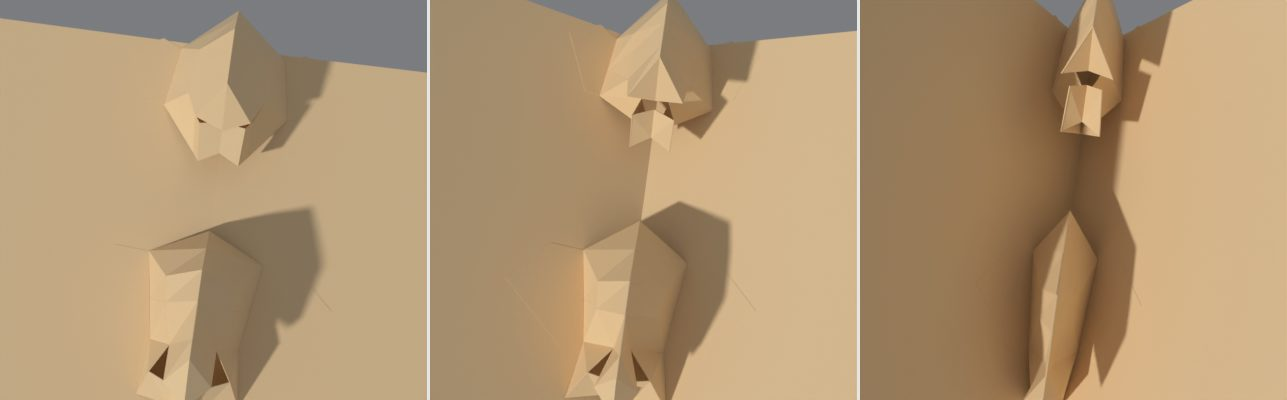
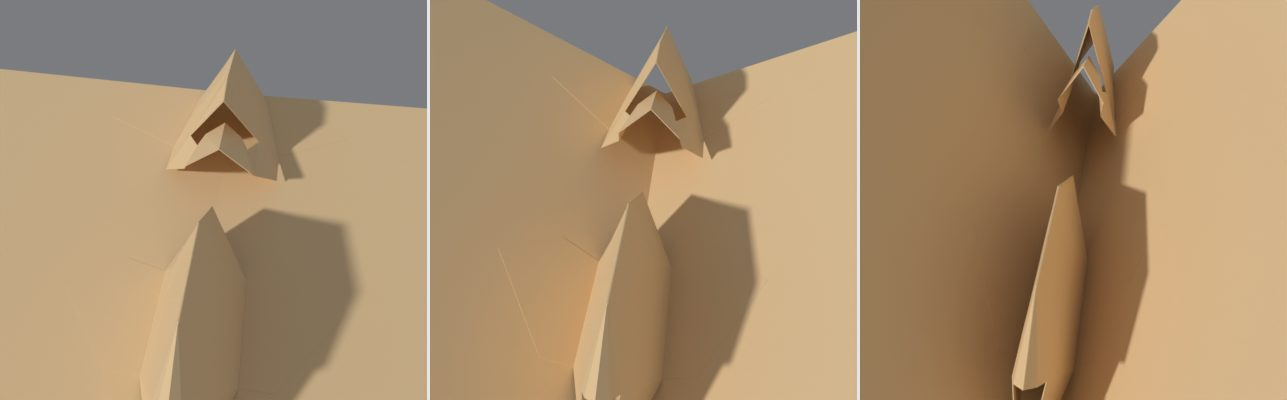
0.94.0: the animal face's mouth corner can be placed
Mouth Out / Mouth Down move the corner (Ap) on either pattern; with Mouth
Angle and Muzzle either pattern reaches the other's mouths. Choosing a
Pattern sets them; Mouth Out 0 keeps the pattern's own (old files).

Claude-Session: https://claude.ai/code/session_01C9mQ3UdpPG4HfxWumnBXkE

diff --git a/popup_pro/props.py b/popup_pro/props.py
@@ -22,7 +22,8 @@ def _head_base(self, context):
     if D is not None:
         for k, v in (("head_nose", "nose"), ("head_brow", "brow"), ("head_muzzle", "muzzle"),
                      ("head_chin", "chin"), ("mouth_w", "mouth_w"), ("mouth_d", "mouth_d"),
-                     ("head_jaw", "jaw"), ("ear_base", "cheek"), ("ear_size", "ear")):
+                     ("head_jaw", "jaw"), ("ear_base", "cheek"), ("ear_size", "ear"),
+                     ("mouth_out", "mouth_out"), ("mouth_down", "mouth_down")):
             setattr(self, k, round(D[v]))
         self.mouth_a = 0.0
     _changed(self, context)
@@ -1270,7 +1271,8 @@ class PopupMech(bpy.types.PropertyGroup):
         ("GOBLIN", "Goblin", "A hand-made goblin's pattern: a frowning mouth turned down past "
          "the nose's tip, a pointed ear")],
         description="Animal face: the hand-made pattern it's built on (choosing one sets "
-        "its landmarks as it was made)")
+        "its landmarks as it was made; the mouth's corner and angles then take either to "
+        "the other's mouths)")
     head_brow: FloatProperty(name="Forehead", default=48.0, min=5.0, soft_max=120.0,
                              update=_changed, description="Animal face: the forehead's seam "
                              "down the middle, from between the eyes up over the top of the "
@@ -1291,6 +1293,13 @@ class PopupMech(bpy.types.PropertyGroup):
     mouth_d: FloatProperty(name="Lower Lip", default=25.0, min=3.0, soft_max=60.0,
                            update=_changed, description="Animal face: the lower lip, from "
                            "the mouth's corner out to the chin: how deep the mouth is")
+    mouth_out: FloatProperty(name="Mouth Out", default=0.0, min=0.0, soft_max=80.0,
+                             update=_changed, description="Animal face: how far out from the "
+                             "nose crease the mouth's corner sits (0: where its pattern has it)")
+    mouth_down: FloatProperty(name="Mouth Down", default=0.0, soft_min=-40.0, soft_max=40.0,
+                              update=_changed, description="Animal face: how far below the "
+                              "nose's tip the mouth's corner sits (minus: above it, beside the "
+                              "nose; with Mouth Out 0, where its pattern has it)")
     mouth_a: FloatProperty(name="Mouth Angle", default=0.0, min=-45.0, max=45.0,
                            update=_changed, description="Animal face: the lower lip, chin and "
                            "jaw turned about the mouth's corner: a smile one way, a frown "
@@ -2030,6 +2039,8 @@ class PopupMech(bpy.types.PropertyGroup):
             d.update(type=self.kind, depth=self.depth, lead=self.lead)
         elif self.kind == "HEAD":
             d.update(type="HEAD", width=self.width, height=self.height, head_base=self.head_base,
+                     mouth_out=self.mouth_out if self.mouth_out > 0.0 else None,
+                     mouth_down=self.mouth_down if self.mouth_out > 0.0 else None,
                      head_brow=self.head_brow, head_nose=self.head_nose,
                      head_muzzle=self.head_muzzle, head_chin=self.head_chin,
                      mouth_w=self.mouth_w, mouth_d=self.mouth_d, mouth_a=self.mouth_a,

diff --git a/tests/test_book_v90.py b/tests/test_book_v90.py
@@ -133,7 +133,8 @@ from popup_pro.core import koala as KO  # noqa: E402
 def ridges(M, f):
     pk, _, tp = KO.pattern(f.head_nose, f.head_brow, f.head_muzzle, f.head_chin, f.mouth_w,
                            f.mouth_d, f.mouth_a, f.head_jaw, f.ear_base, f.ear_size,
-                           base=f.head_base)
+                           base=f.head_base, mouth_out=f.to_dict()["mouth_out"],
+                           mouth_down=f.to_dict()["mouth_down"])
     L = sorted(n for n in M.panels if n.startswith("Head1.L"))
     for _, a_, b_ in tp["seams"]:
         pa_, pb_ = v3(pk[a_]), v3(pk[b_])
@@ -159,7 +160,8 @@ def folds_ok(M, f, worst=-10.0):
     import numpy as np
     pk, _, tp = KO.pattern(f.head_nose, f.head_brow, f.head_muzzle, f.head_chin, f.mouth_w,
                            f.mouth_d, f.mouth_a, f.head_jaw, f.ear_base, f.ear_size,
-                           base=f.head_base)
+                           base=f.head_base, mouth_out=f.to_dict()["mouth_out"],
+                           mouth_down=f.to_dict()["mouth_down"])
     _, _, out = KO.stand(pk, tp)
     names = list(pk)
     cr = KO.creases(pk, tp["faces"])
@@ -230,6 +232,7 @@ f.ear_base = 59.0
 for k, v in (("mouth_a", 15.0), ("mouth_a", -15.0), ("mouth_w", 16.0), ("mouth_d", 32.0),
              ("head_jaw", 28.0), ("head_brow", 35.0), ("head_brow", 60.0), ("head_chin", 22.0),
              ("head_nose", 30.0), ("head_nose", 46.0), ("head_muzzle", 20.0), ("ear_base", 50.0),
+             ("mouth_out", 25.0), ("mouth_out", 42.0), ("mouth_down", 13.0), ("mouth_down", -15.0),
              ("ear_size", 0.0)):
     old = getattr(f, k)
     setattr(f, k, v)
@@ -245,8 +248,9 @@ f.ear_size = 39.0
 # choosing it; a muzzle can be added, and the koala's taken away
 f.head_base = "GOBLIN"
 assert round(f.head_muzzle) == 0 and round(f.head_nose) == 37, (f.head_muzzle, f.head_nose)
+assert (round(f.mouth_out), round(f.mouth_down)) == (24, 13), (f.mouth_out, f.mouth_down)
 for k, v in ((None, None), ("head_muzzle", 12.0), ("mouth_a", -15.0), ("head_brow", 35.0),
-             ("head_chin", 30.0)):
+             ("head_chin", 30.0), ("mouth_out", 34.0), ("mouth_down", -9.0)):
     if k:
         old = getattr(f, k)
         setattr(f, k, v)
@@ -273,6 +277,19 @@ L = sorted(n for n in M.panels if n.startswith("Head1.L"))
 assert not any("Muzzle" in n for n in M.panels) and gaps(40.0) < 0.6
 ridges(M, f)
 f.head_muzzle = 26.0
+# the koala given a goblin's frown: its corner out and down, its jaw turned
+f.mouth_out, f.mouth_down, f.mouth_a = 24.0, 13.0, -30.0
+bpy.ops.popup.build()
+assert not warns(), warns()
+M = model()
+L = sorted(n for n in M.panels if n.startswith("Head1.L"))
+assert gaps(40.0) < 0.6 and gaps(12.0) < 0.6
+ridges(M, f)
+# (a face from before the corner could be set keeps its pattern's corner)
+f.mouth_out, f.mouth_down, f.mouth_a = 0.0, 0.0, 0.0
+d0 = f.to_dict()
+assert d0["mouth_out"] is None and d0["mouth_down"] is None, d0
+f.mouth_out, f.mouth_down = 34.0, -9.0
 # pictures go on its facets
 from popup_pro import props  # noqa: E402
 p = add("PICTURE")

diff --git a/scripts/render_views.py b/scripts/render_views.py
@@ -195,12 +195,19 @@ def head_goblin():
     return (0, 85, 25), 150, (0.1, -0.35, 1.0), (178.0, 120.0, 70.0)
 
 
+def head_frown():
+    a = add("HEAD")  # (the koala given a goblin's frown: its corner out and down)
+    a.mouth_out, a.mouth_down, a.mouth_a = 24.0, 13.0, -30.0
+    return (0, 75, 30), 150, (0.1, -0.35, 1.0), (178.0, 120.0, 70.0)
+
+
 def head_mouths():
-    a = add("HEAD")  # (a wide frown, a long jaw)
-    a.y, a.mouth_w, a.mouth_a, a.head_jaw = 70.0, 16.0, -15.0, 28.0
-    b = add("HEAD")  # (a smile, a short nose, small ears)
-    b.y, b.mouth_a, b.head_nose, b.ear_size = 185.0, 15.0, 28.0, 25.0
-    return (0, 125, 10), 300, (0.02, -0.15, 1.0), (178.0, 120.0, 60.0)
+    a = add("HEAD")  # (a koala given a goblin's frown: its corner out and down)
+    a.y, a.mouth_out, a.mouth_down, a.mouth_a = 70.0, 24.0, 13.0, -30.0
+    b = add("HEAD")  # (a goblin given a muzzle and the koala's corner)
+    b.head_base = "GOBLIN"
+    b.y, b.head_muzzle, b.mouth_out, b.mouth_down = 185.0, 12.0, 34.0, -5.0
+    return (0, 125, 20), 240, (0.1, -0.75, 1.0), (178.0, 120.0, 60.0)
 
 
 def pair():
@@ -290,7 +297,7 @@ def on_riser():
     return (0, 105, 25), 260, (0.25, -0.9, 0.45), (175.0, 120.0, 70.0)
 
 
-SCENES = dict(strut_cutaway=strut_cutaway, rect_lid=rect_lid, strut_lid=strut_lid, turning_disc=turning_disc, disc_close=disc_close, disc_hidden=disc_hidden, lid_host=lid_host, pair=pair, head=head, head_close=head_close, head_side=head_side, head_goblin=head_goblin, head_mouths=head_mouths, face_close=face_close, turning_wheels=turning_wheels, jack_flat=jack_flat, bite_steps=bite_steps, beak_bite=beak_bite, swing_arm=swing_arm, swing_bare=swing_bare, swing_shut=swing_shut, house=house, on_riser=on_riser, flapping_arms=flapping_arms, vfold_bite=vfold_bite, animal_face=animal_face, box_ends=box_ends, slotted_sheet=slotted_sheet, collar_tiers=collar_tiers, loop_cone=loop_cone, cone_lid=cone_lid,
+SCENES = dict(strut_cutaway=strut_cutaway, rect_lid=rect_lid, strut_lid=strut_lid, turning_disc=turning_disc, disc_close=disc_close, disc_hidden=disc_hidden, lid_host=lid_host, pair=pair, head=head, head_close=head_close, head_side=head_side, head_goblin=head_goblin, head_frown=head_frown, head_mouths=head_mouths, face_close=face_close, turning_wheels=turning_wheels, jack_flat=jack_flat, bite_steps=bite_steps, beak_bite=beak_bite, swing_arm=swing_arm, swing_bare=swing_bare, swing_shut=swing_shut, house=house, on_riser=on_riser, flapping_arms=flapping_arms, vfold_bite=vfold_bite, animal_face=animal_face, box_ends=box_ends, slotted_sheet=slotted_sheet, collar_tiers=collar_tiers, loop_cone=loop_cone, cone_lid=cone_lid,
               angled_box=angled_box, cube_tower=cube_tower)
 
 

diff --git a/popup_pro/core/koala.py b/popup_pro/core/koala.py
@@ -115,6 +115,7 @@ for _b, _B in BASES.items():
         "muzzle": _ln("E", "F") if "F" in K_ else 0.0,
         "chin": _ln("R", "S2"), "mouth_w": _ln("Ap", "Q"), "mouth_d": _ln("Q", "R"),
         "jaw": _ln("Q", "J5"), "cheek": float(-K_["B1"][0]),
+        "mouth_out": float(-K_["Ap"][0]), "mouth_down": float(K_["E"][1] - K_["Ap"][1]),
         "ear": float(max(abs(_cross(K_["B2"] - K_["H0"], q - K_["H0"]))
                          / np.linalg.norm(K_["B2"] - K_["H0"]) for q in E_)),
     }
@@ -129,10 +130,12 @@ def _aff(src, dst, q):
 
 
 def pattern(nose, brow, muzzle, chin, mouth_w, mouth_d, mouth_a, jaw, cheek, ear,
-            base="KOALA"):
+            base="KOALA", mouth_out=None, mouth_down=None):
     """The half's corners (mm, C up the y axis from S, the half at x < 0),
     its ear and its topology, the base's stretched to these landmarks.
-    Muzzle under 1 mm: none (the upper lip straight off the nose's tip)."""
+    Muzzle under 1 mm: none (the upper lip straight off the nose's tip).
+    mouth_out, mouth_down: where the mouth's corner sits, out from C and
+    down from the nose's tip (None: where the base has it, stretched)."""
     B = BASES[base]
     K, KE = _K[base]
     D = DEFAULTS[base]
@@ -141,6 +144,17 @@ def pattern(nose, brow, muzzle, chin, mouth_w, mouth_d, mouth_a, jaw, cheek, ear
     p = {}
     for k in B["cpath"] + B["band"]:
         p[k] = K[k] * np.array([sx, sy])
+    # (the mouth's corner where it's asked for, out from C and down from the
+    # nose's tip; the band's corners round it follow, a share each)
+    if mouth_out is not None or mouth_down is not None:
+        mo = float(-p["Ap"][0]) if mouth_out is None else min(mouth_out, 0.9 * cheek)
+        md_ = float(p["E"][1] - p["Ap"][1]) if mouth_down is None else mouth_down
+        new = np.array([-max(2.0, mo), p["E"][1] - md_])
+        dv = new - p["Ap"]
+        p["Ap"] = new
+        for k, sh in (("A3", 0.5), ("V", 0.6)):
+            if k in p:
+                p[k] = p[k] + sh * dv
     # (the forehead's seam: its direction kept, its length set; what lies
     # between it and the hinge carried with it)
     p["T"] = K["T"] * (brow / D["brow"])

diff --git a/popup_pro/core/heads.py b/popup_pro/core/heads.py
@@ -85,8 +85,12 @@ class Heads:
         es = max(0.0, float(m.get("ear_size", D["ear"])))
         tb = max(2.0, float(m.get("tab", 8.0)))
         yN = float(m["y"])
+        mo = m.get("mouth_out")
+        mdn = m.get("mouth_down")
         p_np, ear_np, topo = KO.pattern(nose, brow, muzzle, chin, mw, md, ma, jaw, cheek, es,
-                                        base=base)
+                                        base=base,
+                                        mouth_out=None if mo is None else float(mo),
+                                        mouth_down=None if mdn is None else float(mdn))
         Xd, err, out_ = KO.stand(p_np, topo)
         if err > 0.02 * nose:
             self.warn(f"{lab}: the face can't stand up from its pattern at these landmarks "

diff --git a/popup_pro/ops.py b/popup_pro/ops.py
@@ -76,7 +76,7 @@ DEFAULTS = {
     "PYRAMID": dict(y=80.0, x=25.0, depth=50.0, height=40.0, ridge=0.0, front=25.0,
                     back=25.0, tab=10.0),
     "FRAME": dict(y=0.0, tab=8.0),
-    "HEAD": dict(y=90.0, width=70.0, height=25.0, tab=8.0),
+    "HEAD": dict(y=90.0, width=70.0, height=25.0, tab=8.0, mouth_out=34.0, mouth_down=-9.0),
     "STAGE": dict(y=80.0, phi_l=60.0, glue=60.0, height=80.0, tab=10.0, tab_side="OUT"),
     "FLOOR": dict(tab=8.0),
     "CEILING": dict(tab=8.0),

diff --git a/popup_pro/ui.py b/popup_pro/ui.py
@@ -801,6 +801,8 @@ class POPUP_PT_mechs(_Base, bpy.types.Panel):
         col.prop(m, "head_muzzle")
         col.prop(m, "head_chin")
         col.separator()
+        col.prop(m, "mouth_out")
+        col.prop(m, "mouth_down")
         col.prop(m, "mouth_w")
         col.prop(m, "mouth_d")
         col.prop(m, "mouth_a")

diff --git a/docs/guide.md b/docs/guide.md
@@ -331,6 +331,12 @@ Its landmarks, in the panel (in mm):
   upper lip running straight off the nose's tip: a goblin can have one
   added, carried on down C's line), and from the lower lip back under the
   chin (a seam).
+* **Mouth Out** and **Mouth Down**: where the mouth's corner sits, out from
+  C and down from the nose's tip (minus: above it, beside the nose). With
+  Mouth Angle and Muzzle these take either pattern to the other's mouths:
+  a koala with the goblin's frown (Out 24, Down 13, Angle -30), a goblin
+  with a muzzle and the koala's corner. Mouth Out 0 leaves the corner where
+  its pattern has it (faces saved before 0.94).
 * **Mouth Width** (the slot at its corner, inside the cheek), **Lower Lip**
   (from the corner out to the chin: how deep the mouth is), **Mouth Angle**
   (the lower lip, chin and jaw turned about the mouth's corner: a smile one
@@ -352,8 +358,12 @@ pages](images/head_close.jpg)
 
 ![The goblin, at 178, 120 and 70 degrees](images/head_goblin.jpg)
 
-![Two more koalas: a wide frown with a long jaw (below); a smile with a short nose
-and small ears (above); at 178, 120 and 60 degrees](images/head_mouths.jpg)
+![A koala given the goblin's frown: Mouth Out 24, Down 13, Angle -30 (its
+long muzzle hangs over the mouth)](images/head_frown.jpg)
+
+![Two more: the koala with the goblin's frown (below); a goblin with a
+muzzle and the koala's mouth corner (above); at 178, 120 and 60
+degrees](images/head_mouths.jpg)
 
 **Back-to-Back Pair** (Birmingham 53, **+** menu > Back-to-Back Pair
 (parallel strips)): the simplest thing on two parallel strips, two pieces of

diff --git a/CHANGELOG.md b/CHANGELOG.md
@@ -3,6 +3,14 @@
 Newest first. `python scripts/since_upload.py` shows what has changed since the
 last upload to GitHub.
 
+* **0.94.0**: the **Animal Face**'s mouth corner can be placed: **Mouth
+  Out** (how far out from the nose crease) and **Mouth Down** (how far
+  below the nose's tip; minus is above it, beside the nose), on either
+  pattern, so with Mouth Angle (the lip and jaw turned about the corner)
+  and Muzzle either can take the other's mouth: a koala with a goblin's
+  frown, a goblin with a muzzle and a smile. Choosing a Pattern sets the
+  corner where that face has it; a face saved before 0.94 (Mouth Out 0)
+  keeps its pattern's corner.
 * **0.93.1**: the **Animal Face**'s creases sit the way card's do. Each
   crease now has a light spring: open flat, any shape the facets leave
   free goes the way creased card springs back (each crease a little

diff --git a/README.md b/README.md
@@ -261,14 +261,15 @@ Sunflower is a good way to make them.
 
 ## Version history
 
+* **0.94**: the animal face's mouth corner can be placed (out from the nose
+  crease, down from the nose's tip), so either pattern can take the other's
+  mouths: a koala that frowns, a goblin with a muzzle.
 * **0.93.1**: the animal face's creases sit the way card's do (a light
   spring on each, a little mountain at rest): no more deep valley at the
   bottom corner of the mouth.
 * **0.93**: a goblin pattern for the animal face beside the koala (a frown,
   no muzzle), muzzles optional on either, and the koala's jaw no longer
   folds deep partway shut.
-* **0.92.1**: the animal face's nose tip and chin stay ridges as it closes
-  (they were caving in part way shut).
 
 Earlier versions are in the [changelog](CHANGELOG.md).
 
